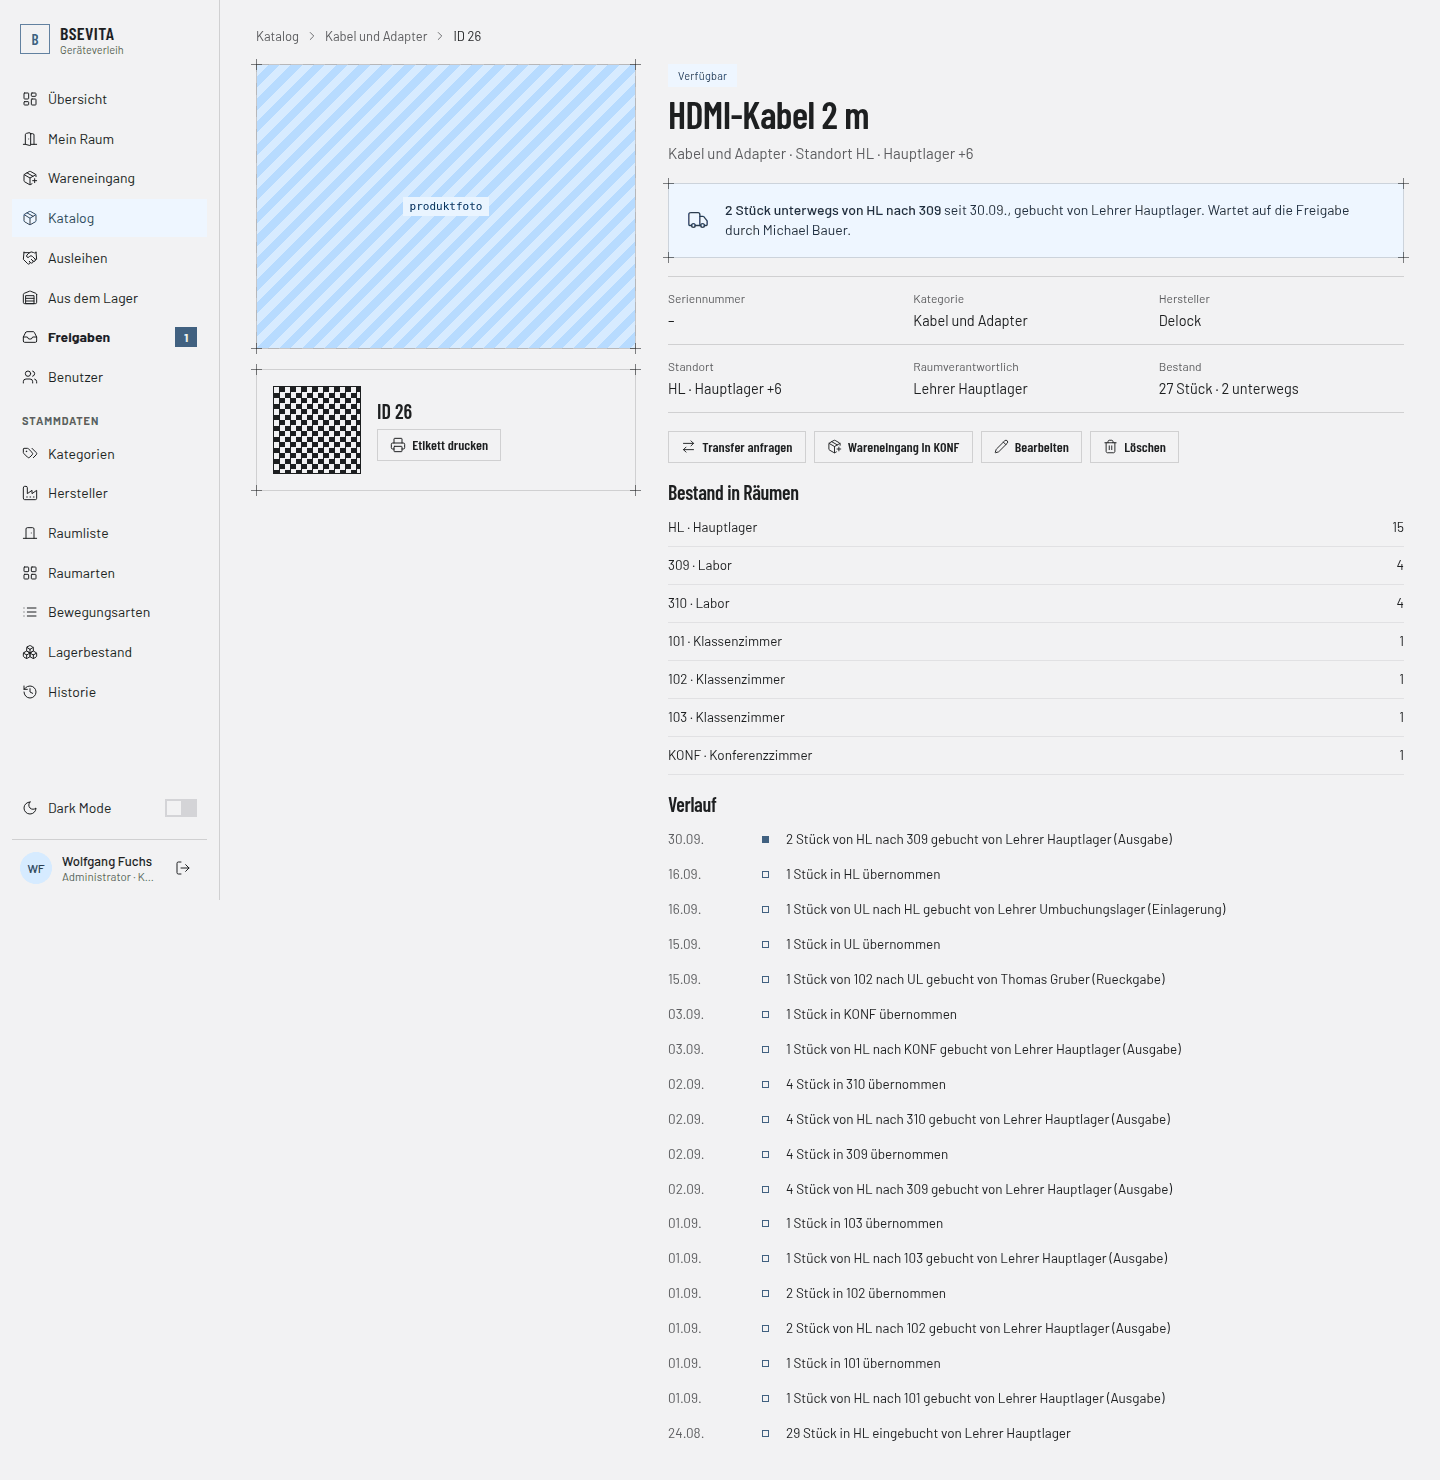
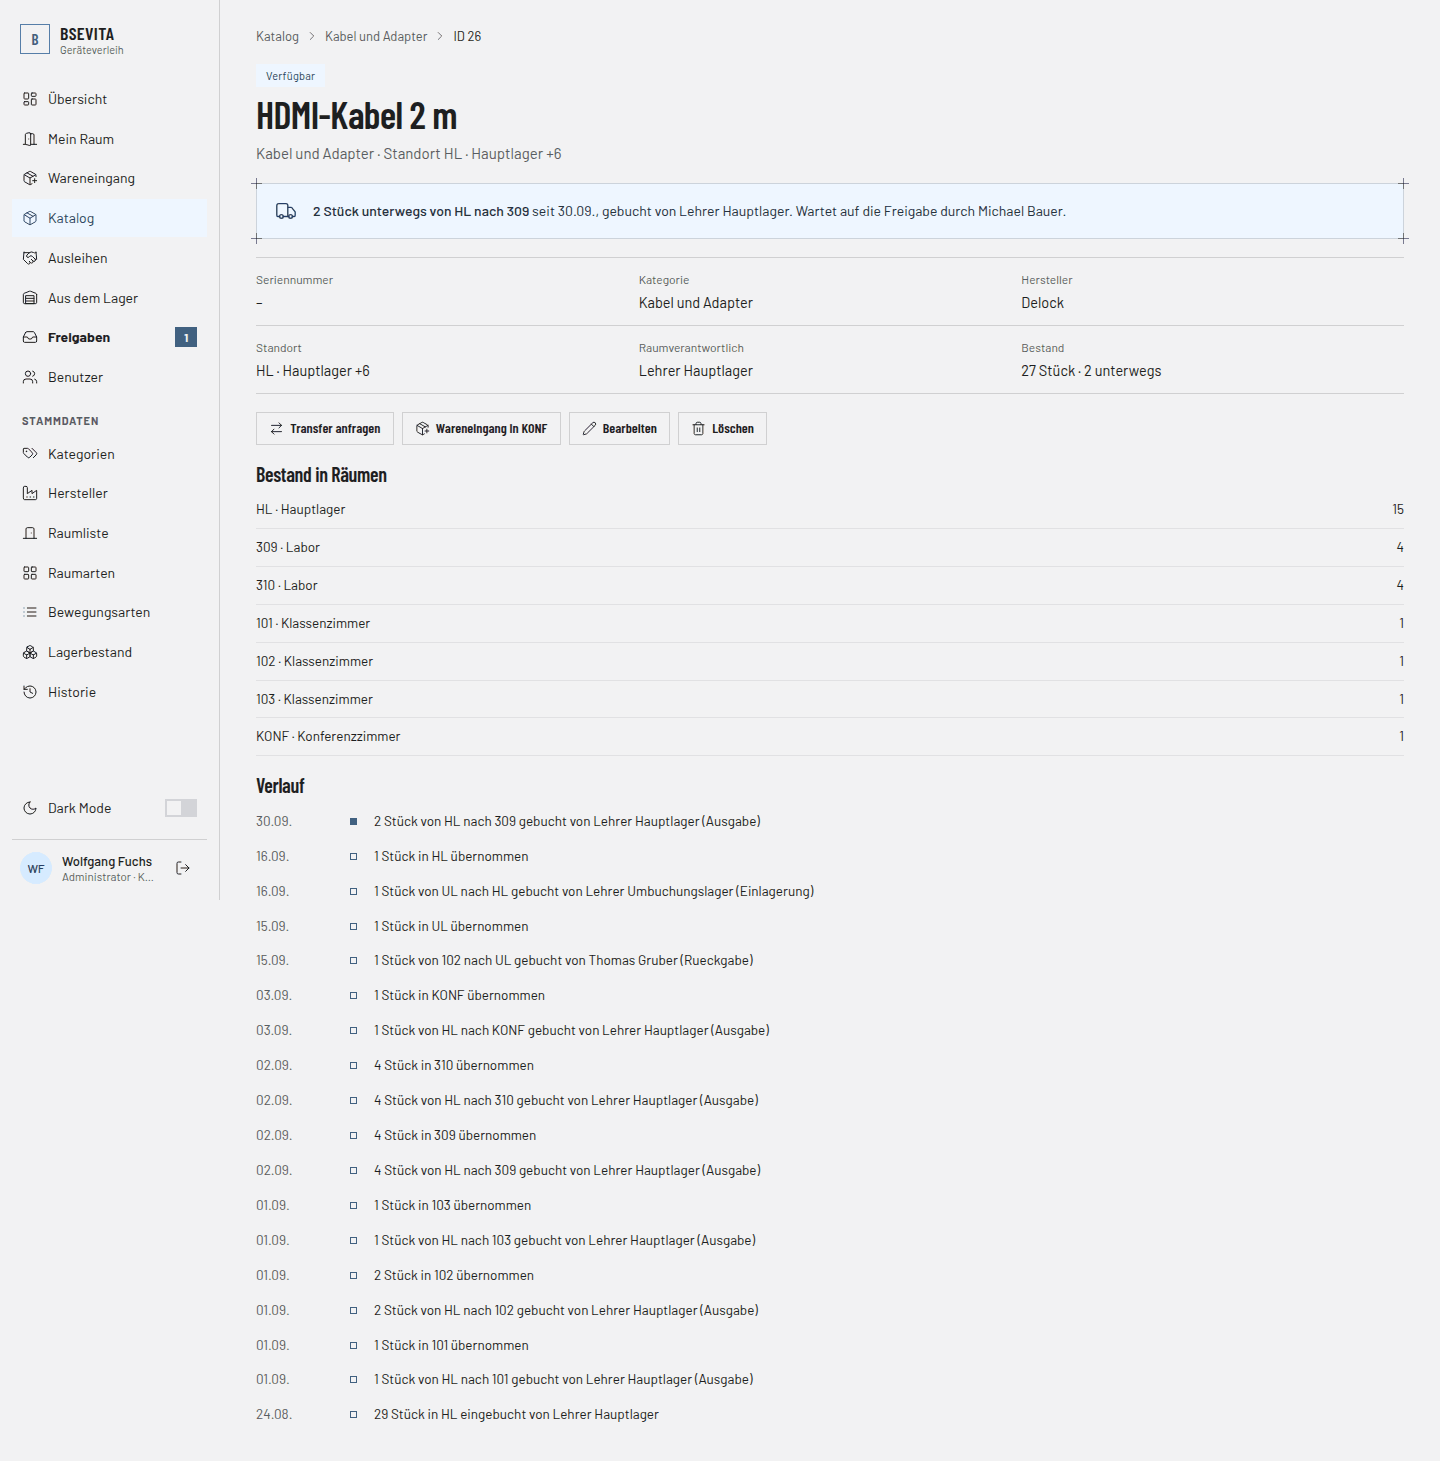
Tutorial und Screenshots an die bereinigte Oberfläche angepasst
Claude-Session: https://claude.ai/code/session_01MAe5QCMjWhcnw2YaHqo41Y

diff --git a/Tutorial.md b/Tutorial.md
@@ -15,10 +15,9 @@ Dieses Tutorial erklärt die Bedienung der Lagerverwaltungs-App Schritt für Sch
 9. [Ausleihen (Transfer anfragen)](#9-ausleihen-transfer-anfragen)
 10. [Freigaben](#10-freigaben)
 11. [Profil](#11-profil)
-12. [Scannen](#12-scannen)
-13. [Administration](#13-administration)
-14. [Mobile Ansicht](#14-mobile-ansicht)
-15. [Häufige Fragen und Meldungen](#15-häufige-fragen-und-meldungen)
+12. [Administration](#12-administration)
+13. [Mobile Ansicht](#13-mobile-ansicht)
+14. [Häufige Fragen und Meldungen](#14-häufige-fragen-und-meldungen)
 
 ---
 
@@ -94,7 +93,7 @@ Ist die Datenbank noch leer (kein einziger Benutzer), zeigt die App statt der An
 
 ![Registrierung](Docs/Screenshots/01-registrieren.png)
 
-Sobald es einen Benutzer gibt, ist die Registrierung gesperrt. Neue Konten legt dann nur noch ein Admin unter **Benutzer** an (siehe [13.1](#131-benutzer)).
+Sobald es einen Benutzer gibt, ist die Registrierung gesperrt. Neue Konten legt dann nur noch ein Admin unter **Benutzer** an (siehe [12.1](#121-benutzer)).
 
 ### 3.2 Anmelden und Abmelden
 
@@ -119,13 +118,13 @@ Zum **Abmelden** klicken Sie unten in der Seitenleiste auf das Pfeil-Symbol nebe
 
 ![Dark Mode](Docs/Screenshots/04-dark-mode.png)
 
-Auf schmalen Bildschirmen (Smartphone) ersetzt eine **Tab-Leiste unten** die Seitenleiste, siehe [Mobile Ansicht](#14-mobile-ansicht).
+Auf schmalen Bildschirmen (Smartphone) ersetzt eine **Tab-Leiste unten** die Seitenleiste, siehe [Mobile Ansicht](#13-mobile-ansicht).
 
 ---
 
 ## 4. Übersicht (Startseite)
 
-Die Übersicht ist die Startseite nach der Anmeldung. Oben stehen das Datum und eine Begrüßung je nach Tageszeit, rechts die Schnellzugriffe **QR scannen** und **Neue Ausleihe**.
+Die Übersicht ist die Startseite nach der Anmeldung. Oben stehen das Datum und eine Begrüßung je nach Tageszeit, rechts der Schnellzugriff **Neue Ausleihe**.
 
 ![Übersicht für eine Lehrerin](Docs/Screenshots/05-uebersicht-lehrerin.png)
 
@@ -169,8 +168,6 @@ Die Detailseite zeigt:
 * **Verlauf**: alle Buchungen dieses Gegenstands, die neueste zuerst.
 * Je nach Berechtigung die Buttons **Transfer anfragen**, **Wareneingang in &lt;Ihr Raum&gt;**, **Freigeben** (wenn Sie eine offene Anfrage freigeben müssen), sowie für Admins **Bearbeiten** und **Löschen**.
 
-> Produktfoto und „Etikett drucken“ sind Platzhalter aus dem Design und haben noch keine Funktion.
-
 ### 5.3 Gegenstand erfassen, bearbeiten, löschen (nur Admin)
 
 **Erfassen:** Im Katalog oben rechts auf **Gerät erfassen** klicken.
@@ -191,8 +188,6 @@ Die Detailseite zeigt:
 **Löschen:** In den Details auf **Löschen** klicken. Gelöscht werden kann ein Gegenstand nur, wenn er **keinen Bestand** mehr hat und in **keiner Lagerbewegung** vorkommt (sonst ginge die Historie verloren). Andernfalls erklärt die Seite, warum es nicht geht:
 
 ![Gegenstand löschen nicht möglich](Docs/Screenshots/15-gegenstand-loeschen.png)
-
-> Der Button „CSV importieren“ im Katalog ist ein Platzhalter aus dem Design. Einen CSV-Import gibt es noch nicht.
 
 ---
 
@@ -245,7 +240,7 @@ Die Buchung ist **sofort bestätigt**, eine Freigabe ist nicht nötig. Danach er
 
    ![Lager auswählen](Docs/Screenshots/23-lager-auswahl.png)
 
-3. Im Suchfeld Name oder Seriennummer eingeben (oder scannen). Ein Klick auf einen Vorschlag fügt das Gerät hinzu, **Enter** übernimmt den ersten Vorschlag.
+3. Im Suchfeld Name oder Seriennummer eingeben oder mit einem USB-Handscanner einlesen. Ein Klick auf einen Vorschlag fügt das Gerät hinzu, **Enter** übernimmt den ersten Vorschlag.
 4. Bei Mengenartikeln die **Menge** eintragen (rechts steht „von …“, also wie viel im Lager liegt). Mit **×** entfernen Sie ein Gerät wieder aus der Liste.
 5. **Bewegungsart** wählen (Standard: „Ausgabe“).
 6. **Holen anfragen** klicken.
@@ -269,7 +264,7 @@ Mit **Ausleihen** (bzw. **Transfer anfragen** unter „Mein Raum“ oder **Neue 
 
 1. Bei **Ausleihen an** den Zielraum wählen. Angeboten werden nur Räume mit verantwortlicher Person, denn diese muss die Übernahme bestätigen.
 2. **Bewegungsart** wählen (Standard: „Ausgabe“, z. B. auch „Rueckgabe“ oder „Reparatur“).
-3. Geräte über das Suchfeld hinzufügen (Name/Seriennummer eintippen oder scannen, Vorschlag anklicken).
+3. Geräte über das Suchfeld hinzufügen: Name oder Seriennummer eintippen oder mit einem USB-Handscanner einlesen, dann den Vorschlag anklicken (oder **Enter** für den ersten Vorschlag).
 4. Bei Mengenartikeln die **Menge** eintragen. Geräte mit Seriennummer werden immer einzeln gebucht.
 5. Rechts in der **Zusammenfassung** prüfen: Von, An und **Benötigte Freigabe** (wer bestätigen muss).
 6. **Freigabe anfragen** klicken.
@@ -347,21 +342,11 @@ Admins können über die Benutzerverwaltung auch das Profil **anderer Personen**
 
 ---
 
-## 12. Scannen
-
-Über **QR scannen** (Übersicht) bzw. den Tab **Scannen** (mobil) erreichen Sie die Scan-Seite.
-
-![Scannen](Docs/Screenshots/34-scannen.png)
-
-> Die Seite ist derzeit eine **statische Vorschau** aus dem Design und hat noch keine Funktion. Zum Hinzufügen von Geräten können Sie aber in den Suchfeldern von „Ausleihen“ und „Aus dem Lager holen“ einen USB-Handscanner verwenden: Er tippt die Seriennummer ein, und **Enter** übernimmt den ersten Vorschlag.
-
----
-
-## 13. Administration
+## 12. Administration
 
 Alle Seiten in diesem Abschnitt sind **nur für Admins** sichtbar.
 
-### 13.1 Benutzer
+### 12.1 Benutzer
 
 Menüpunkt **Benutzer**: links die Liste aller Benutzer mit Rolle, Raumverantwortung und Anzahl offener Transfers, rechts die Details der ausgewählten Person.
 
@@ -369,7 +354,7 @@ Menüpunkt **Benutzer**: links die Liste aller Benutzer mit Rolle, Raumverantwor
 
 * **Rolle: alle** filtert die Liste nach Rolle, das Suchfeld rechts sucht nach Name oder E-Mail (mit Enter).
 * Ein **Klick auf eine Zeile** zeigt die Person rechts. Dort gibt es **Profil öffnen**, **Bearbeiten** (Stift) und **Löschen** (Papierkorb).
-* **+ Raum** führt zur Raumliste, denn die Raumverantwortung legt man beim Raum fest (siehe [13.2](#132-stammdaten)).
+* **+ Raum** führt zur Raumliste, denn die Raumverantwortung legt man beim Raum fest (siehe [12.2](#122-stammdaten)).
 
 **Benutzer anlegen:** Oben rechts auf **Benutzer anlegen** klicken, Vorname, Nachname, Benutzername (eindeutig), Passwort, E-Mail und Rolle eintragen, dann **Anlegen** klicken.
 
@@ -386,13 +371,13 @@ Menüpunkt **Benutzer**: links die Liste aller Benutzer mit Rolle, Raumverantwor
 * Eine Person, die für einen **Raum verantwortlich** ist, kann erst gelöscht werden, wenn der Raum einer anderen Person zugewiesen ist.
 * Eine Person, die **Lagerbewegungen erfasst** hat, kann nicht gelöscht werden (die Historie muss nachvollziehbar bleiben).
 
-**Rollen verwalten:** Über **Rollen verwalten** (oben rechts) legen Sie Rollen an, bearbeiten oder löschen sie. Ist bei einer Rolle **Admin** angehakt, bekommen alle Personen mit dieser Rolle Zugriff auf die Administration.
+**Rollen verwalten:** Über **Rollen verwalten** (oben rechts) kommen Sie zur Liste der Rollen. Mit **Neue Rolle** legen Sie eine Rolle an, je Zeile gibt es **Details**, **Bearbeiten** und **Löschen**. Ist bei einer Rolle **Admin-Rechte** angehakt, bekommen alle Personen mit dieser Rolle Zugriff auf die Administration. **Zurück zu den Benutzern** führt wieder zur Benutzerverwaltung.
 
 ![Rollen](Docs/Screenshots/44-rollen.png)
 
 > Die Rolle wird beim Anmelden übernommen. Ändert ein Admin die Rolle einer Person, gilt die neue Rolle erst, wenn sich diese Person ab- und wieder anmeldet. Eine geänderte **Raumverantwortung** gilt dagegen sofort.
 
-### 13.2 Stammdaten
+### 12.2 Stammdaten
 
 Alle Stammdaten-Seiten funktionieren gleich: eine Liste mit **Neu**-Button oben rechts und je Zeile **Details**, **Bearbeiten** und **Löschen**.
 
@@ -447,7 +432,7 @@ Eine Bewegungsart beschreibt eine Lagerbewegung nur näher (z. B. Ausgabe, Rück
 
 > **Ausnahmen:** „Storniert“ (für abgelehnte und zurückgezogene Transfers) und „Korrektur“ (für Korrekturbuchungen im Lagerbestand) vergibt die App selbst. Sie können beim Buchen nicht gewählt, nicht umbenannt und nicht gelöscht werden.
 
-### 13.3 Lagerbestand (Korrektur)
+### 12.3 Lagerbestand (Korrektur)
 
 Mit **Lagerbestand** korrigieren Admins den Bestand eines Raums, z. B. nach einer Inventur.
 
@@ -464,7 +449,7 @@ Jede geänderte Menge wird als **sofort bestätigte Lagerbewegung** mit der Bewe
 
 > Hat sich der Bestand zwischen Anzeigen und Buchen geändert (z. B. durch einen Transfer), bricht die Korrektur ab. Dann die Seite neu laden und neu zählen.
 
-### 13.4 Historie
+### 12.4 Historie
 
 Die **Historie** listet **alle Lagerbewegungen**, die neueste zuerst, mit 50 Einträgen pro Seite.
 
@@ -486,9 +471,9 @@ Ein Klick auf eine Zeile öffnet die Details des Gegenstands mit seinem Verlauf.
 
 ---
 
-## 14. Mobile Ansicht
+## 13. Mobile Ansicht
 
-Auf dem Smartphone passt sich die App an: Statt der Seitenleiste gibt es unten eine **Tab-Leiste** mit **Übersicht**, **Katalog**, **Scannen** (hervorgehoben in der Mitte), **Freigaben** (mit Badge) und **Profil**. Alle weiteren Bereiche, den Dark-Mode-Schalter und **Abmelden** finden Sie unter **Profil**.
+Auf dem Smartphone passt sich die App an: Statt der Seitenleiste gibt es unten eine **Tab-Leiste** mit **Übersicht**, **Katalog**, **Freigaben** (mit Badge) und **Profil**. Alle weiteren Bereiche, den Dark-Mode-Schalter und **Abmelden** finden Sie unter **Profil**.
 
 <table>
   <tr>
@@ -500,7 +485,7 @@ Auf dem Smartphone passt sich die App an: Statt der Seitenleiste gibt es unten e
 
 ---
 
-## 15. Häufige Fragen und Meldungen
+## 14. Häufige Fragen und Meldungen
 
 | Frage oder Meldung | Antwort |
 |---|---|
